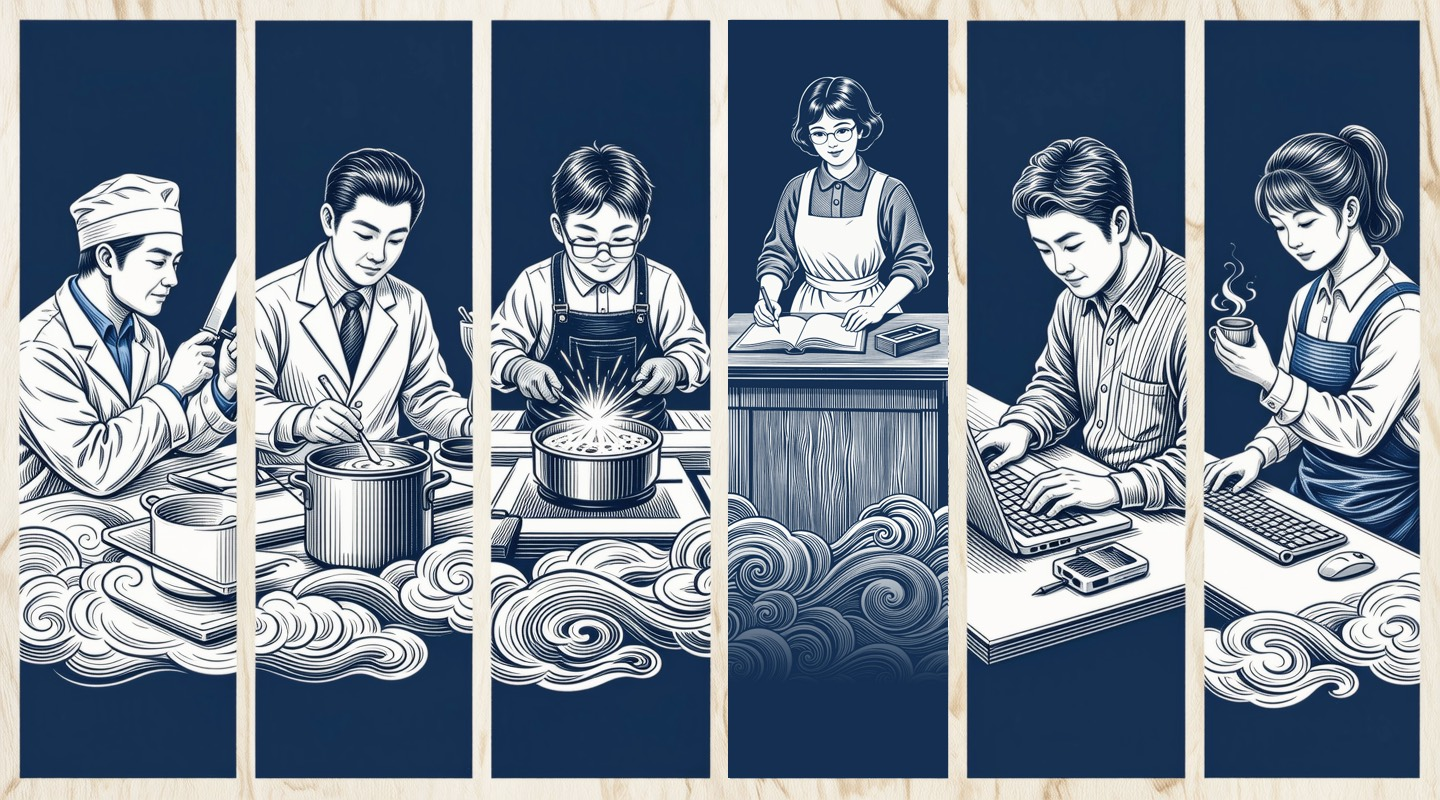
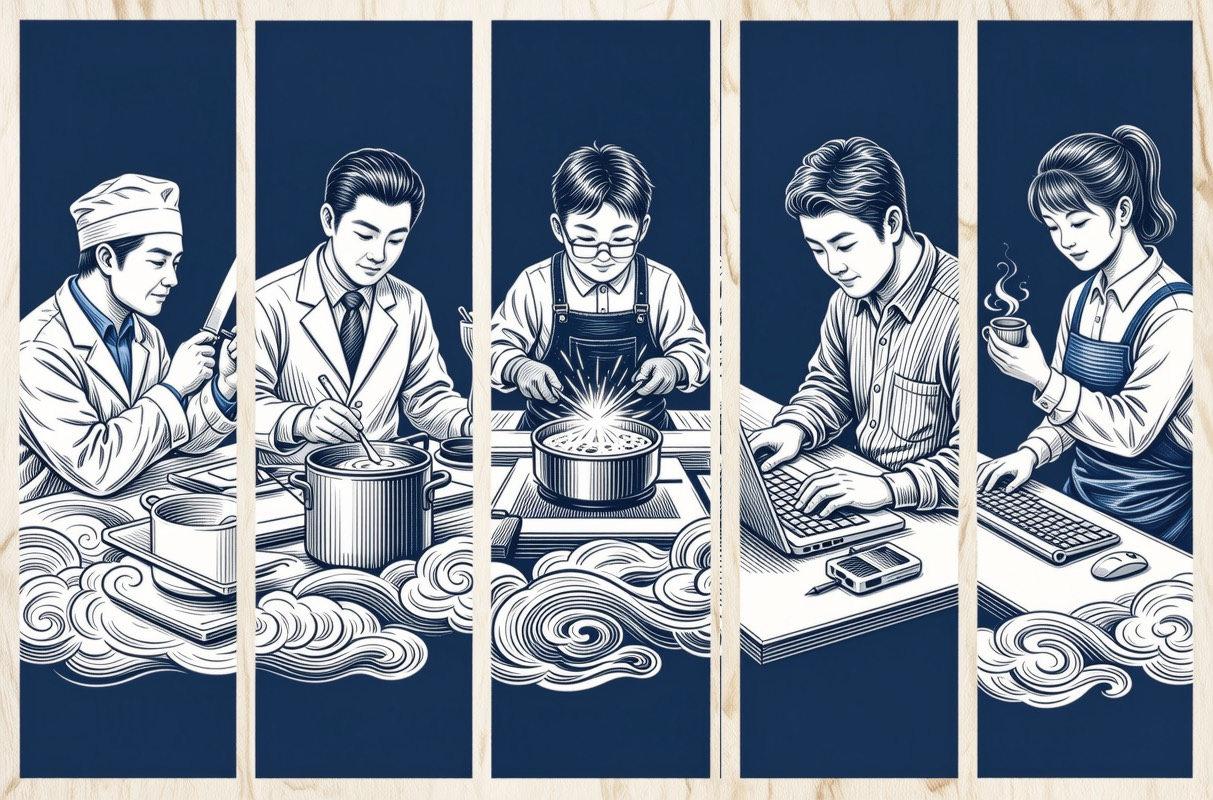
fix(入一行，过一生): 首页长卷去掉第四格（缝纫 / 老师都和别的格不搭），改成五格；图框比例跟着改

diff --git a/src/app/game/page.tsx b/src/app/game/page.tsx
@@ -6,7 +6,7 @@ export const metadata: Metadata = {
   title: '入一行，过一生',
   description: '抽一张入职登记卡：城市、单位、资历都不由你选。从这一天起，一年一年把职业生涯过到退休。',
   appleWebApp: { capable: true, title: '入一行，过一生', statusBarStyle: 'default' },
-  openGraph: { title: '入一行，过一生', description: '抽一张入职登记卡，从这一天起把一段职业生涯过到退休。北京三甲的副主任医师和县医院第一年的住院医师，是两种完全不同的一生。', type: 'website', siteName: '1job1life', images: [{ url: '/game/art/hero.jpg', width: 1440, height: 800, alt: '入一行，过一生' }] },
+  openGraph: { title: '入一行，过一生', description: '抽一张入职登记卡，从这一天起把一段职业生涯过到退休。北京三甲的副主任医师和县医院第一年的住院医师，是两种完全不同的一生。', type: 'website', siteName: '1job1life', images: [{ url: '/game/art/hero.jpg', width: 1213, height: 800, alt: '入一行，过一生' }] },
   twitter: { card: 'summary_large_image', title: '入一行，过一生', description: '抽一张入职登记卡，把一段职业生涯过到退休。', images: ['/game/art/hero.jpg'] },
 };
 export const viewport: Viewport = { width: 'device-width', initialScale: 1, viewportFit: 'cover', themeColor: '#f4f1ea' };

diff --git a/src/app/game/GameApp.tsx b/src/app/game/GameApp.tsx
@@ -431,7 +431,7 @@ const CSS = `
 .g-codes { display: flex; gap: 14px; justify-content: center; flex-wrap: wrap; margin: 6px 0 14px; }
 .g-codes figure { margin: 0; } .g-codes img { width: 200px; max-height: 300px; height: auto; object-fit: contain; border-radius: 12px; border: 1px solid var(--line); background: #fff; }
 .g-art { display: block; width: 100%; aspect-ratio: 1440 / 800; object-fit: cover; border-radius: 16px; margin: 0 0 18px; box-shadow: 0 10px 30px rgba(31,61,107,.12); background: #e9eef5; }
-.g-art-hero { margin-bottom: 22px; }
+.g-art-hero { margin-bottom: 22px; aspect-ratio: 1213 / 800; }
 .g-codes figcaption { font-size: 12.5px; color: var(--ink3); margin-top: 4px; }
 .g-in { animation: g-in .6s ease-out both; }
 .g-path li.bad::before { border-color: var(--bad); } .g-path li.good::before { border-color: var(--good); }
